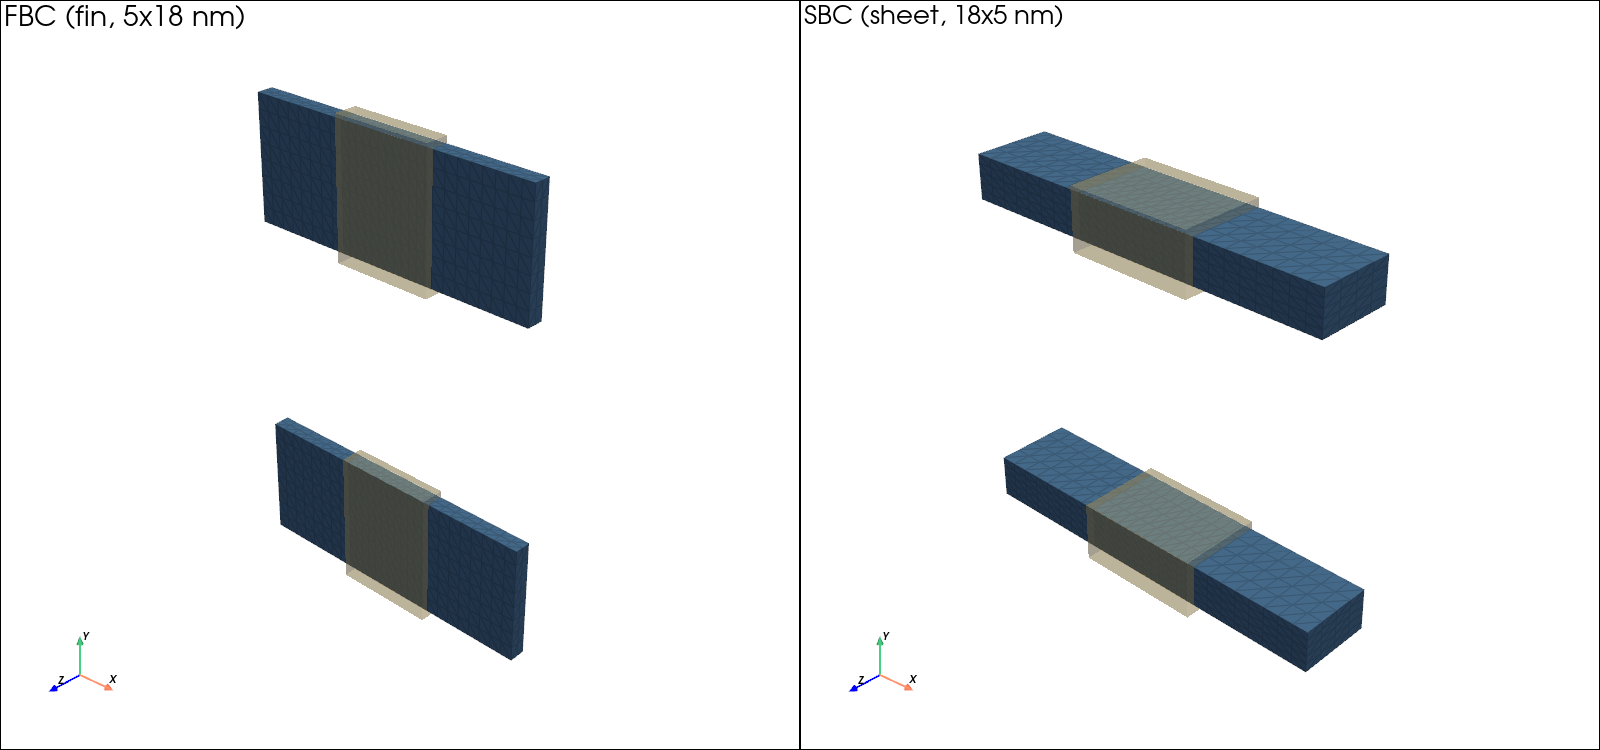
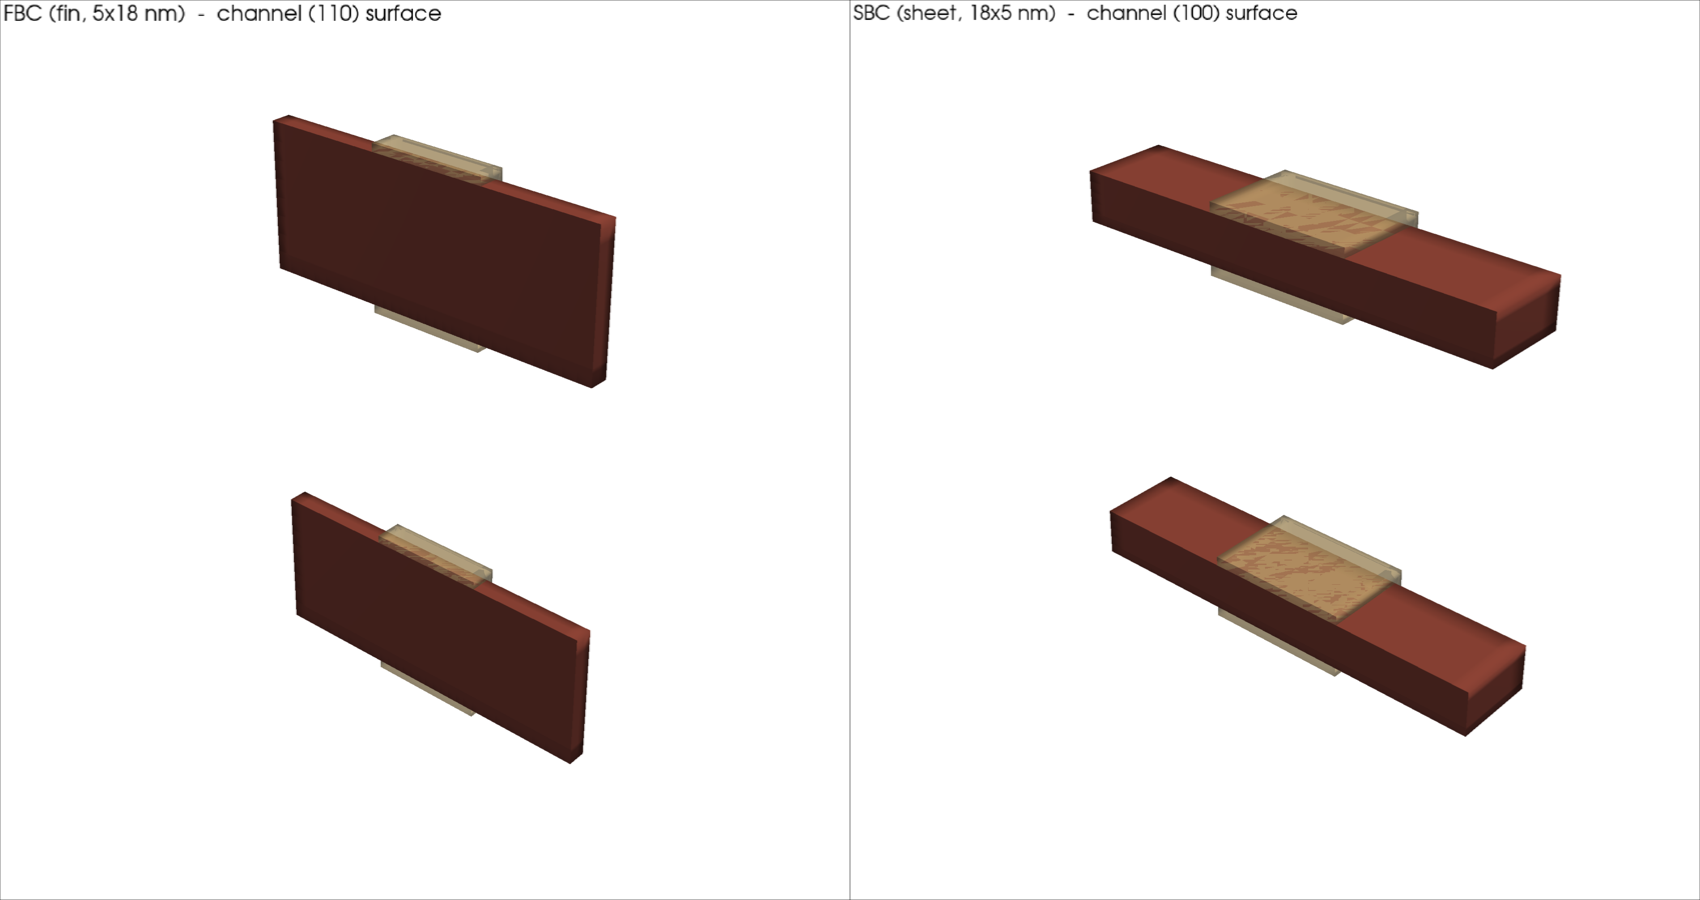
Redesign the Fig 4/8/9-style figures to match the paper's presentation
Re-examined the actual paper pages (rendered from the PDF) instead of
working from the text description alone, and found two things worth
fixing beyond "make it prettier":

- Fig. 9 in the paper is a 2D cross-sectional field map (a slice
  perpendicular to transport showing a colored channel cross-section
  with an oxide border), not a 1D line plot along one axis - my
  earlier version was the wrong chart type for what it claims to
  reproduce. Replaced with io.render3d.slice_polygons() (new, tested
  utility: per-cell 2D polygons from a plane cut, no interpolation
  smoothing implied) rendered via matplotlib PolyCollection - four
  panels (Sheet/Fin x nMOS/pMOS), each with its own oxide-enclosed
  silicon cross-section and colorbar.
- The oxide-to-silicon pairing (needed to draw only the right gate
  shell around each slice) assumed oxide touches one face of its
  silicon region, true for the 2D nanosheet's separate top/bottom
  oxide layers but wrong for the 3D GAA builder's single wrap-around
  shell, which *encloses* the channel on all sides. The touching-edge
  heuristic silently matched nothing. Fixed by pairing on closest
  y-center instead, which is geometry-shape-independent.
- Fig. 8 was showing the whole CFET stack with an empty, dataless
  oxide box floating below (the pFET, which carries no eMobility
  plot) - confusing since it read as a rendering bug. Isolated to
  just the nFET + its own oxide shell, matching the paper's
  single-device framing.
[…]

diff --git a/examples/paper_structure_mobility_figures.py b/examples/paper_structure_mobility_figures.py
@@ -1,14 +1,18 @@
 """Produce Fig.4/8/9-style figures from Jiang et al. (AMAT) for the
-FBC/SBC CFET comparison, using this program's own capabilities:
+FBC/SBC CFET comparison, styled closer to the paper's own presentation:
 
-  Fig. 4 (structure)         -> device cross-section render (Structure)
-  Fig. 8 (3D eMobility)      -> 3D render colored by mu_n_cvt (CVT mobility)
-  Fig. 9 (mobility profile)  -> 1D cut across the confinement direction
+  Fig. 4 (structure)         -> device render, warmer paper-like palette,
+                                smooth shading, no mesh wireframe
+  Fig. 8 (3D eMobility)      -> 3D render, turbo colormap (matches
+                                Sentaurus Visual / TecPlot's field-plot
+                                convention), translucent oxide context
+  Fig. 9 (mobility profile)  -> the paper's actual Fig. 9 is a 2D
+                                cross-sectional field map (a slice
+                                perpendicular to transport), not a 1D
+                                line plot - reproduced the same way here
 
 Requires the two lombardi_vsat runs (configs/paper_{fbc,sbc}_lombardi_
-cfet_3d.yaml) so mu_n_cvt/mu_p_cvt exist (only lombardi_vsat assembles
-them; the earlier doping_vsat paper_{fbc,sbc}_cfet_3d.yaml runs used for
-the Ion/Ioff comparison do not carry this field).
+cfet_3d.yaml) so mu_n_cvt/mu_p_cvt exist.
 
     python examples/paper_structure_mobility_figures.py RESULTS_ROOT -o docs
 """
@@ -21,22 +25,24 @@ import numpy as np
 CONFIGS = ("paper_fbc_lombardi", "paper_sbc_lombardi")
 LABELS = {"paper_fbc_lombardi": "FBC (fin, 5x18 nm)",
          "paper_sbc_lombardi": "SBC (sheet, 18x5 nm)"}
-COLORS = {"paper_fbc_lombardi": "#2a78d6", "paper_sbc_lombardi": "#1baf7a"}
+ORIENTATION = {"paper_fbc_lombardi": "(110)", "paper_sbc_lombardi": "(100)"}
 
-#: inset the line-sample endpoints away from the exact oxide interface -
-#: sample_over_line probing precisely on the mesh boundary can miss every
-#: cell and silently return 0, which would masquerade as real data
-_INSET = 0.03
+# a warmer, paper-adjacent palette (kept local to this script; the GUI's
+# own Structure 3D view keeps its existing blue/tan default)
+SILICON_COLOR = "#9a4b3f"     # channel: warm brick, echoes the paper's NS
+OXIDE_COLOR = "#d8bd85"       # gate oxide: gold/tan
+CMAP = "turbo"                # vivid rainbow - the domain convention for
+                              # TCAD field plots (Sentaurus Visual,
+                              # TecPlot), not the general chart-design
+                              # "avoid rainbow" advice, which is for
+                              # generic business charts
 
 
 def _region(meshes, sign: str):
-    """The silicon region matching a doping sign ('n' -> donor-dominated,
-    'p' -> acceptor-dominated) - never assume file/creation order."""
     for m in meshes:
         if "NetDoping" not in m.array_names:
             continue
-        total = float(np.asarray(m["NetDoping"]).sum())
-        if (sign == "n") == (total > 0):
+        if (sign == "n") == (float(np.asarray(m["NetDoping"]).sum()) > 0):
             return m
     raise ValueError(f"no {sign}-type silicon region in this snapshot")
 
@@ -47,12 +53,23 @@ def _full_bounds(meshes):
            b[:, 4].min(), b[:, 5].max())
 
 
-def _iso_camera(bounds):
+def _own_oxide(oxides, region):
+    """The oxide shell belonging to ``region``: the 3D GAA builder wraps
+    each silicon channel in its own oxide shell whose y-range *encloses*
+    the channel's (not just touches one face, unlike the 2D nanosheet's
+    separate top/bottom layers) - so match by closest y-center instead
+    of an edge-touching tolerance, which is geometry-independent."""
+    y_mid = (region.bounds[2] + region.bounds[3]) / 2
+    return min(oxides,
+              key=lambda o: abs((o.bounds[2] + o.bounds[3]) / 2 - y_mid))
+
+
+def _iso_camera(bounds, zoom=1.3):
     c = [(bounds[0] + bounds[1]) / 2, (bounds[2] + bounds[3]) / 2,
         (bounds[4] + bounds[5]) / 2]
     diag = float(np.linalg.norm(np.array(bounds[1::2]) - np.array(bounds[0::2])))
-    return [[c[0] + 1.3 * diag, c[1] + 1.1 * diag, c[2] + 1.4 * diag],
-           c, (0, 1, 0)], c
+    return [[c[0] + zoom * diag, c[1] + 0.9 * zoom * diag,
+             c[2] + 1.15 * zoom * diag], c, (0, 1, 0)], c
 
 
 def main(argv=None) -> int:
@@ -66,83 +83,126 @@ def main(argv=None) -> int:
     matplotlib.use("Agg")
     import matplotlib.pyplot as plt
     import pyvista as pv
+    from matplotlib.collections import PolyCollection
 
-    from cfet_tcad.io.render3d import (add_device, load_snapshot,
-                                       sample_line, snapshot_prefixes)
+    from cfet_tcad.io.render3d import (load_snapshot, slice_polygons,
+                                       snapshot_prefixes)
 
-    meshes, device_bounds, nfet, pfet = {}, {}, {}, {}
+    meshes, nfet, pfet, oxides, device_bounds = {}, {}, {}, {}, {}
     for cfg in CONFIGS:
         vtk_dir = args.results_root / cfg / "vtk"
-        prefix = snapshot_prefixes(vtk_dir)[-1]  # the high-Vg snapshot
+        prefix = snapshot_prefixes(vtk_dir)[-1]
         m = load_snapshot(vtk_dir, prefix)
         meshes[cfg] = m
-        device_bounds[cfg] = _full_bounds(m)
         nfet[cfg] = _region(m, "n")
         pfet[cfg] = _region(m, "p")
+        oxides[cfg] = [x for x in m if "NetDoping" not in x.array_names]
+        device_bounds[cfg] = _full_bounds(m)
 
-    # --- Fig. 4 style: structure cross-sections, FBC vs SBC -------------
+    # ---------------------------------------------------------------
+    # Fig. 4 style: structure, warm palette, smooth shading, no edges
+    # ---------------------------------------------------------------
     fig4 = args.out / "paper_fig4_structure.png"
-    p = pv.Plotter(off_screen=True, shape=(1, 2), window_size=(1600, 750))
+    p = pv.Plotter(off_screen=True, shape=(1, 2), window_size=(1700, 900))
     for i, cfg in enumerate(CONFIGS):
         p.subplot(0, i)
-        add_device(p, meshes[cfg], field=None, clip="z")
-        p.add_text(LABELS[cfg], font_size=12)
-        p.add_axes()
-        p.camera_position, _ = _iso_camera(device_bounds[cfg])
+        bounds = device_bounds[cfg]
+        z_mid = (bounds[4] + bounds[5]) / 2
+        for region in (nfet[cfg], pfet[cfg]):
+            clipped = region.clip(normal="z", origin=[0, 0, z_mid])
+            p.add_mesh(clipped, color=SILICON_COLOR, smooth_shading=True,
+                      specular=0.4, specular_power=20, show_edges=False)
+        for ox in oxides[cfg]:
+            clipped = ox.clip(normal="z", origin=[0, 0, z_mid])
+            p.add_mesh(clipped, color=OXIDE_COLOR, opacity=0.55,
+                      smooth_shading=True, show_edges=False)
+        p.add_text(f"{LABELS[cfg]}  -  channel {ORIENTATION[cfg]} surface",
+                  font_size=13, color="black")
+        p.camera_position, _ = _iso_camera(bounds)
     p.set_background("white")
+    p.enable_anti_aliasing("ssaa")
     p.screenshot(str(fig4))
     p.close()
     print("wrote", fig4)
 
-    # --- Fig. 8 style: 3D eMobility (mu_n_cvt) distribution --------------
+    # ---------------------------------------------------------------
+    # Fig. 8 style: 3D eMobility, turbo colormap, oxide as context wrap
+    # ---------------------------------------------------------------
     fig8 = args.out / "paper_fig8_emobility_3d.png"
     clim = (min(float(np.asarray(nfet[c]["mu_n_cvt"]).min()) for c in CONFIGS),
            max(float(np.asarray(nfet[c]["mu_n_cvt"]).max()) for c in CONFIGS))
-    p = pv.Plotter(off_screen=True, shape=(1, 2), window_size=(1600, 750))
+    p = pv.Plotter(off_screen=True, shape=(1, 2), window_size=(1700, 900))
     for i, cfg in enumerate(CONFIGS):
         p.subplot(0, i)
-        cam, center = _iso_camera(device_bounds[cfg])
-        clipped = nfet[cfg].clip(normal="z", origin=center)
-        p.add_mesh(clipped, scalars="mu_n_cvt", cmap="viridis", clim=clim,
-                  scalar_bar_args={"title": "eMobility [cm2/Vs]"})
-        p.add_text(f"{LABELS[cfg]} - nMOS eMobility", font_size=11)
-        p.add_axes()
-        p.camera_position = cam
+        # isolate just the nFET + its own gate oxide - the paper's Fig.8
+        # is a single-device eMobility plot, not the whole CFET stack
+        n_region = nfet[cfg]
+        n_oxide = _own_oxide(oxides[cfg], n_region)
+        z_mid = (n_region.bounds[4] + n_region.bounds[5]) / 2
+        clipped = n_region.clip(normal="z", origin=[0, 0, z_mid])
+        p.add_mesh(clipped, scalars="mu_n_cvt", cmap=CMAP, clim=clim,
+                  smooth_shading=True, show_edges=False,
+                  scalar_bar_args={"title": "eMobility [cm2/Vs]",
+                                  "color": "black"})
+        oclip = n_oxide.clip(normal="z", origin=[0, 0, z_mid])
+        p.add_mesh(oclip, color=OXIDE_COLOR, opacity=0.22,
+                  smooth_shading=True, show_edges=False)
+        p.add_text(f"{LABELS[cfg]} - nMOS eMobility {ORIENTATION[cfg]}",
+                  font_size=12, color="black")
+        p.camera_position, _ = _iso_camera(n_region.bounds, zoom=1.5)
     p.set_background("white")
+    p.enable_anti_aliasing("ssaa")
     p.screenshot(str(fig8))
     p.close()
     print("wrote", fig8)
 
-    # --- Fig. 9 style: mobility profile across the confinement direction
-    fig, axes = plt.subplots(1, 2, figsize=(11, 4.4))
+    # ---------------------------------------------------------------
+    # Fig. 9 style: the paper's actual figure is a 2D cross-sectional
+    # field map (a cut perpendicular to transport), not a line plot -
+    # 4 panels: {SBC, FBC} x {nMOS eMobility, pMOS hMobility}
+    # ---------------------------------------------------------------
+    panels = [(cfg, field, carrier)
+             for field, carrier in (("mu_n_cvt", "nMOS eMobility"),
+                                    ("mu_p_cvt", "pMOS hMobility"))
+             for cfg in CONFIGS]
+    all_vals = {f: np.concatenate([
+        np.asarray((nfet if f == "mu_n_cvt" else pfet)[c][f])
+        for c in CONFIGS]) for f in ("mu_n_cvt", "mu_p_cvt")}
+    clims = {f: (float(v.min()), float(v.max())) for f, v in all_vals.items()}
+
+    fig, axes = plt.subplots(1, 4, figsize=(15, 4.4))
     fig.patch.set_facecolor("#fcfcfb")
-    plots = ((axes[0], "mu_n_cvt", nfet, "nMOS (electron) eMobility"),
-             (axes[1], "mu_p_cvt", pfet, "pMOS (hole) eMobility"))
-    for ax, field, region_of, title in plots:
-        for cfg in CONFIGS:
-            b = region_of[cfg].bounds
-            x_mid = (b[0] + b[1]) / 2
-            z_mid = (b[4] + b[5]) / 2
-            span = b[3] - b[2]
-            y0, y1 = b[2] + _INSET * span, b[3] - _INSET * span
-            dist, vals = sample_line(meshes[cfg], field,
-                                     (x_mid, y0, z_mid), (x_mid, y1, z_mid),
-                                     resolution=150)
-            t_si_nm = span * 1e7  # cm -> nm
-            ax.plot(dist * 1e7, vals, color=COLORS[cfg], lw=2,
-                   label=f"{LABELS[cfg]} (t_si={t_si_nm:.0f}nm)")
-        ax.set_xlabel("position across confinement direction [nm]")
-        ax.set_ylabel("mobility [cm2/Vs]")
-        ax.set_ylim(0, None)
-        ax.set_title(title, fontsize=10)
-        ax.grid(True, alpha=0.25)
-        ax.legend(fontsize=8)
-    fig.suptitle("Mobility profile across the channel body "
-                "(paper Fig. 9 style; oxide interfaces at both ends)",
+    for ax, (cfg, field, carrier) in zip(axes, panels):
+        region = nfet[cfg] if field == "mu_n_cvt" else pfet[cfg]
+        x_mid = (region.bounds[0] + region.bounds[1]) / 2
+        si_polys, si_vals = slice_polygons(region, "x", (x_mid, 0, 0),
+                                           field=field)
+        own_oxide = _own_oxide(oxides[cfg], region)
+        ox_polys, _ = slice_polygons(own_oxide, "x", (x_mid, 0, 0))
+        pc = PolyCollection([poly * 1e7 for poly in ox_polys],
+                            facecolor=OXIDE_COLOR, edgecolor="none",
+                            zorder=1)
+        ax.add_collection(pc)
+        pc = PolyCollection([poly * 1e7 for poly in si_polys], array=si_vals,
+                            cmap=CMAP, edgecolor="none", zorder=2)
+        pc.set_clim(*clims[field])
+        ax.add_collection(pc)
+        ax.autoscale_view()
+        ax.set_aspect("equal")
+        ax.set_facecolor("#fcfcfb")
+        ax.set_xticks([]); ax.set_yticks([])
+        for spine in ax.spines.values():
+            spine.set_visible(False)
+        label = "Sheet" if cfg == "paper_sbc_lombardi" else "Fin"
+        ax.set_title(f"{label} {ORIENTATION[cfg]}\n{carrier}", fontsize=10)
+        cbar = fig.colorbar(pc, ax=ax, fraction=0.046, pad=0.06)
+        cbar.ax.tick_params(labelsize=7)
+    fig.suptitle("Mobility distribution in the middle of channel "
+                "(cross-section perpendicular to transport, paper Fig. 9 style)",
                 fontsize=11)
     fig.tight_layout()
     fig9 = args.out / "paper_fig9_mobility_profile.png"
-    fig.savefig(fig9, dpi=160)
+    fig.savefig(fig9, dpi=170)
     plt.close(fig)
     print("wrote", fig9)
     return 0

diff --git a/src/cfet_tcad/io/render3d.py b/src/cfet_tcad/io/render3d.py
@@ -174,6 +174,34 @@ def export_obj(vtk_dir: Path, path: Path, prefix: str | None = None,
     return path
 
 
+def slice_polygons(mesh: pv.DataSet, normal: str, origin,
+                   field: str | None = None):
+    """2D cross-section polygons (+ per-polygon values) of a cut plane,
+    for custom rendering (e.g. matplotlib) of a Sentaurus-Visual-style
+    cross-sectional field map - paper Fig. 9's "mobility distribution in
+    the middle of channel" is exactly this, a slice perpendicular to
+    transport, not a 1D line.
+
+    Returns ``(polygons, values)``: ``polygons`` is a list of Nx2 arrays
+    in the cut plane's local 2D coordinates (the ``normal`` axis
+    dropped); ``values`` is the per-polygon (cell) field array, or an
+    empty array if ``field`` is None or absent. Kept per-cell (no
+    interpolation to points) so the plot stays faithful to the actual
+    mesh resolution instead of implying smoothness the coarse mesh
+    doesn't have.
+    """
+    sl = mesh.slice(normal=normal, origin=origin)
+    axis = {"x": 0, "y": 1, "z": 2}[normal]
+    cols = [i for i in range(3) if i != axis]
+    if sl.n_points == 0:
+        return [], np.array([])
+    pts2d = sl.points[:, cols]
+    polygons = [pts2d[sl.get_cell(i).point_ids] for i in range(sl.n_cells)]
+    values = (np.asarray(sl.cell_data[field])
+             if field and field in sl.cell_data else np.array([]))
+    return polygons, values
+
+
 def field_choices(meshes: list[pv.DataSet]) -> list[str]:
     """Fields worth offering in a UI, present in any region.
 

diff --git a/tests/test_render3d.py b/tests/test_render3d.py
@@ -148,3 +148,23 @@ def test_sample_line_mobility_profile(lombardi_vtk_dir):
 
     missing_d, missing_v = sample_line(meshes, "not_a_field", p1, p2)
     assert len(missing_d) == 0 and len(missing_v) == 0
+
+
+def test_slice_polygons_cross_section(lombardi_vtk_dir):
+    """Paper Fig. 9 is a cross-sectional field map, not a line profile:
+    a slice perpendicular to transport gives per-cell 2D polygons."""
+    from cfet_tcad.io.render3d import load_snapshot, slice_polygons
+
+    meshes = load_snapshot(lombardi_vtk_dir)
+    silicon = next(m for m in meshes if "mu_n_cvt" in m.array_names)
+    x_mid = (silicon.bounds[0] + silicon.bounds[1]) / 2
+    polygons, values = slice_polygons(silicon, "x", (x_mid, 0, 0),
+                                      field="mu_n_cvt")
+    assert len(polygons) == len(values) > 0
+    for poly in polygons:
+        assert poly.shape[1] == 2  # normal axis dropped
+    assert np.all(values > 0)
+
+    empty_polys, empty_vals = slice_polygons(
+        silicon, "x", (silicon.bounds[1] + 1, 0, 0), field="mu_n_cvt")
+    assert empty_polys == [] and len(empty_vals) == 0  # plane misses mesh